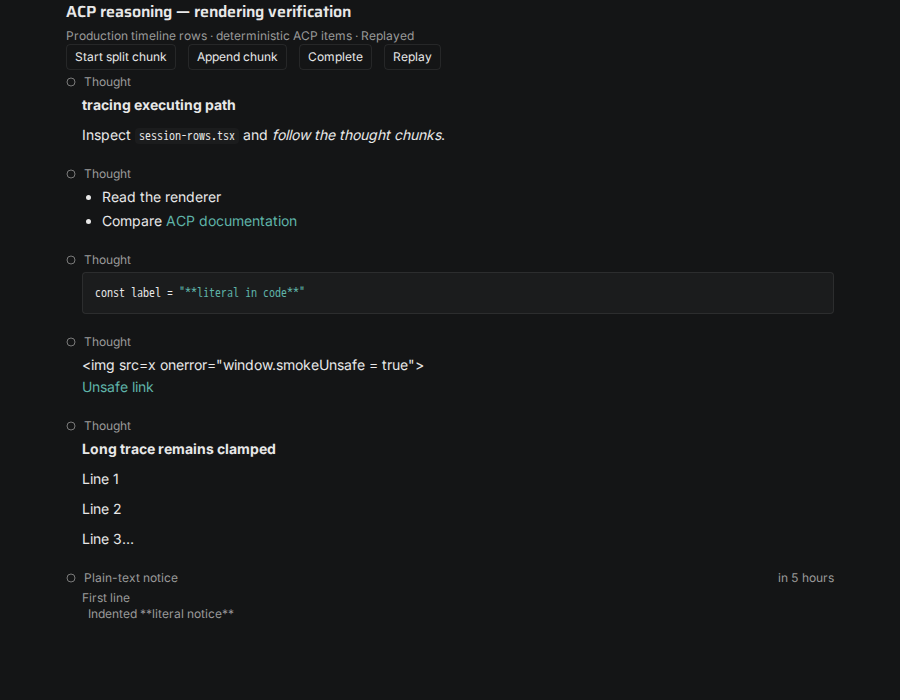
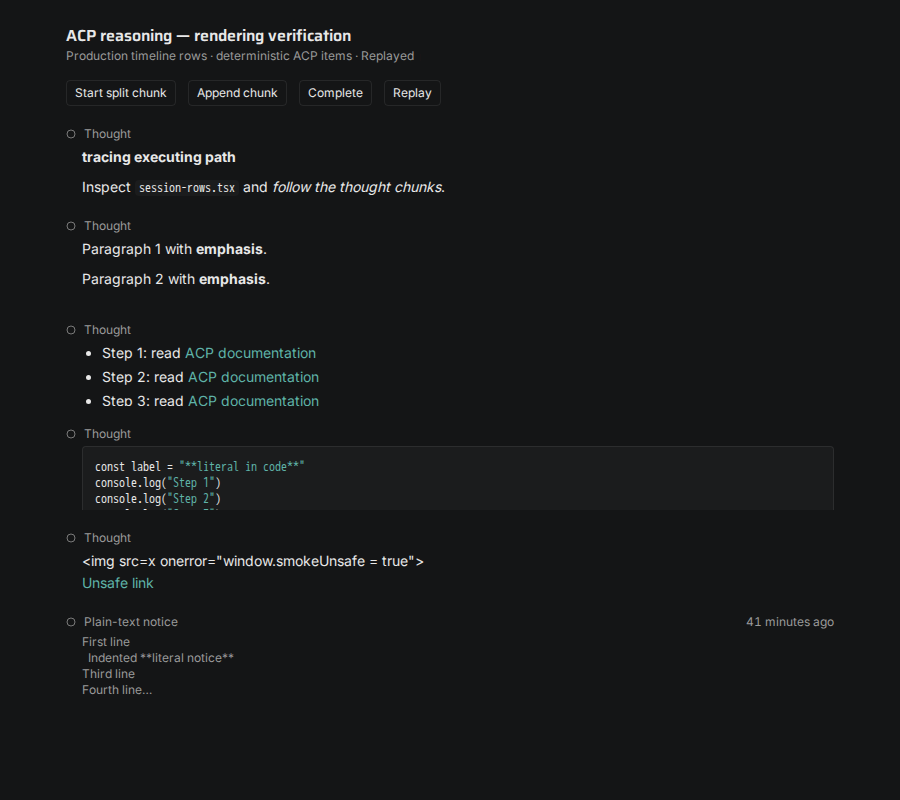
fix(dashboard): bound markdown thought previews
Nested Markdown blocks can exceed a CSS line clamp. Bound the preview
to four line heights so long paragraphs, lists, and code keep the
existing timeline footprint at every text size.

Changed region(s): [[0.0622, 0.0, 0.4978, 0.9], [0.84, 0.75, 0.9333, 0.78], [0.8711, 0.81, 0.9333, 0.84]]

diff --git a/web/src/components/ui/timeline.tsx b/web/src/components/ui/timeline.tsx
@@ -212,7 +212,7 @@ export function EventRow({
         <span className={cn('min-w-0 flex-1 break-words', tone !== 'neutral' && 'text-text')}>{children}</span>
         {trailing !== undefined && <span className="shrink-0 tabular-nums">{trailing}</span>}
       </div>
-      {detail && <div className={cn('line-clamp-4 pl-4 break-words', typeof detail === 'string' && 'whitespace-pre-wrap')}>{detail}</div>}
+      {detail && <div className={cn('line-clamp-4 max-h-[4lh] pl-4 break-words', typeof detail === 'string' && 'whitespace-pre-wrap')}>{detail}</div>}
     </div>
   )
 }

diff --git a/docs/enhanced-runs.md b/docs/enhanced-runs.md
@@ -112,7 +112,8 @@ Standard runs and for real stalls. **Show earlier** reads older items 200 at
 a time. `Esc` in an empty composer moves focus to the timeline; `Esc` again
 leaves the run.
 
-Thoughts keep a four-line preview; event notices remain plain text.
+Thought previews are capped at four line heights and scale with **Settings >
+Appearance > Text size**; event notices remain plain text.
 The [rendering capture](media/acp-reasoning-markdown.png) shows production
 timeline components with fixture ACP items, not a live agent.
 
